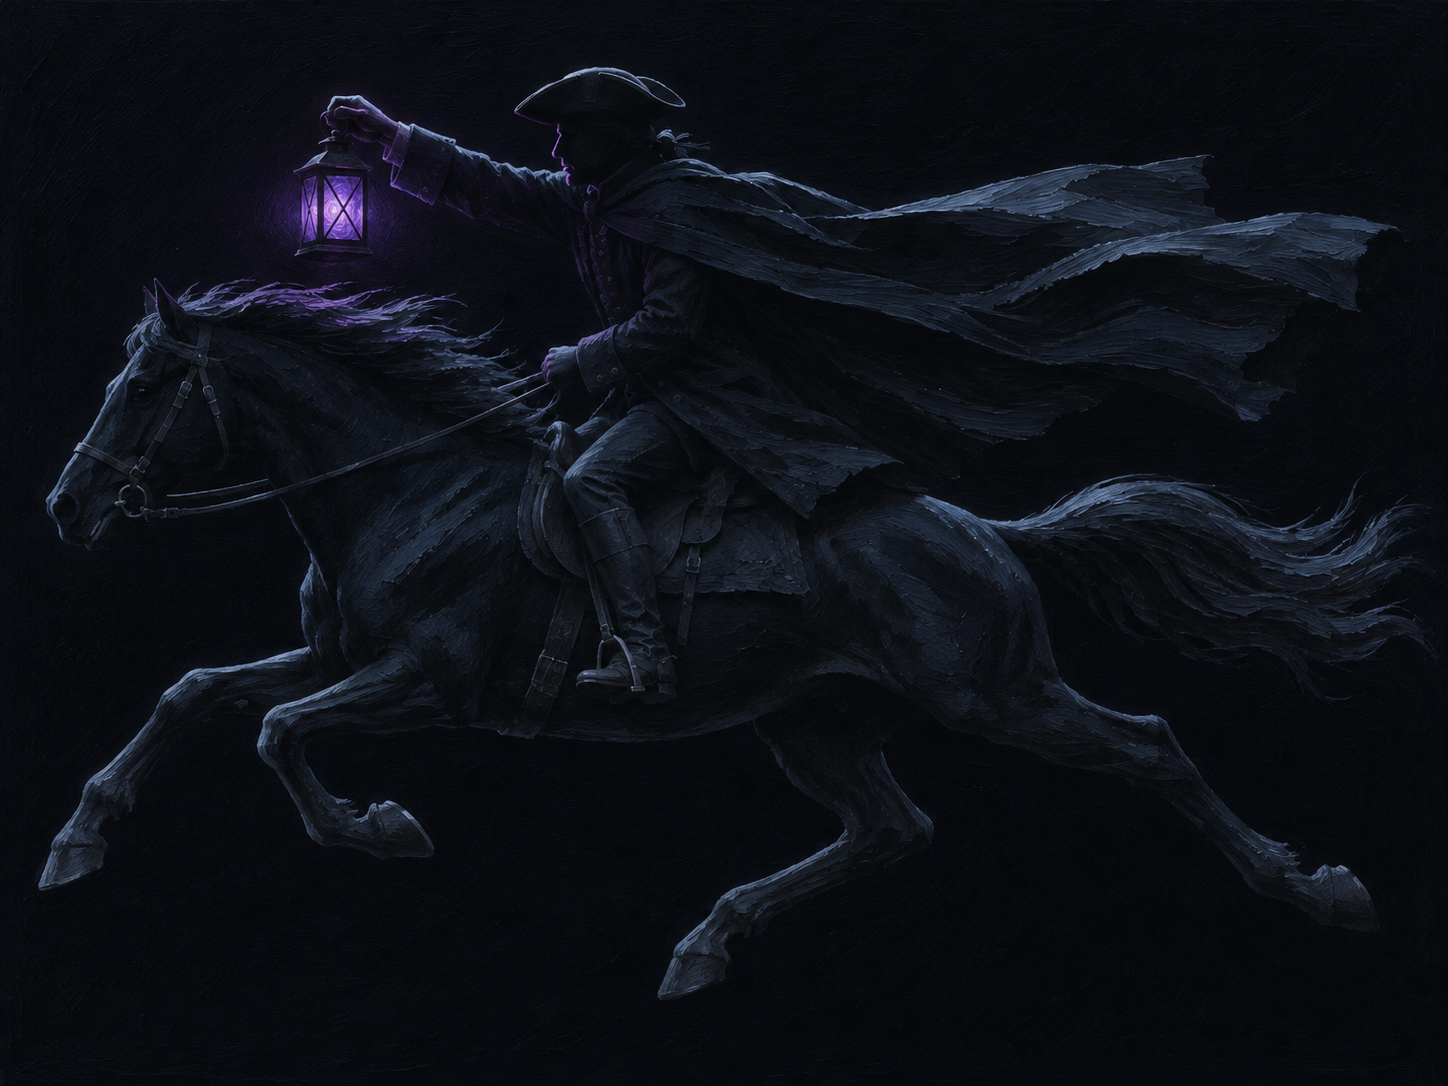
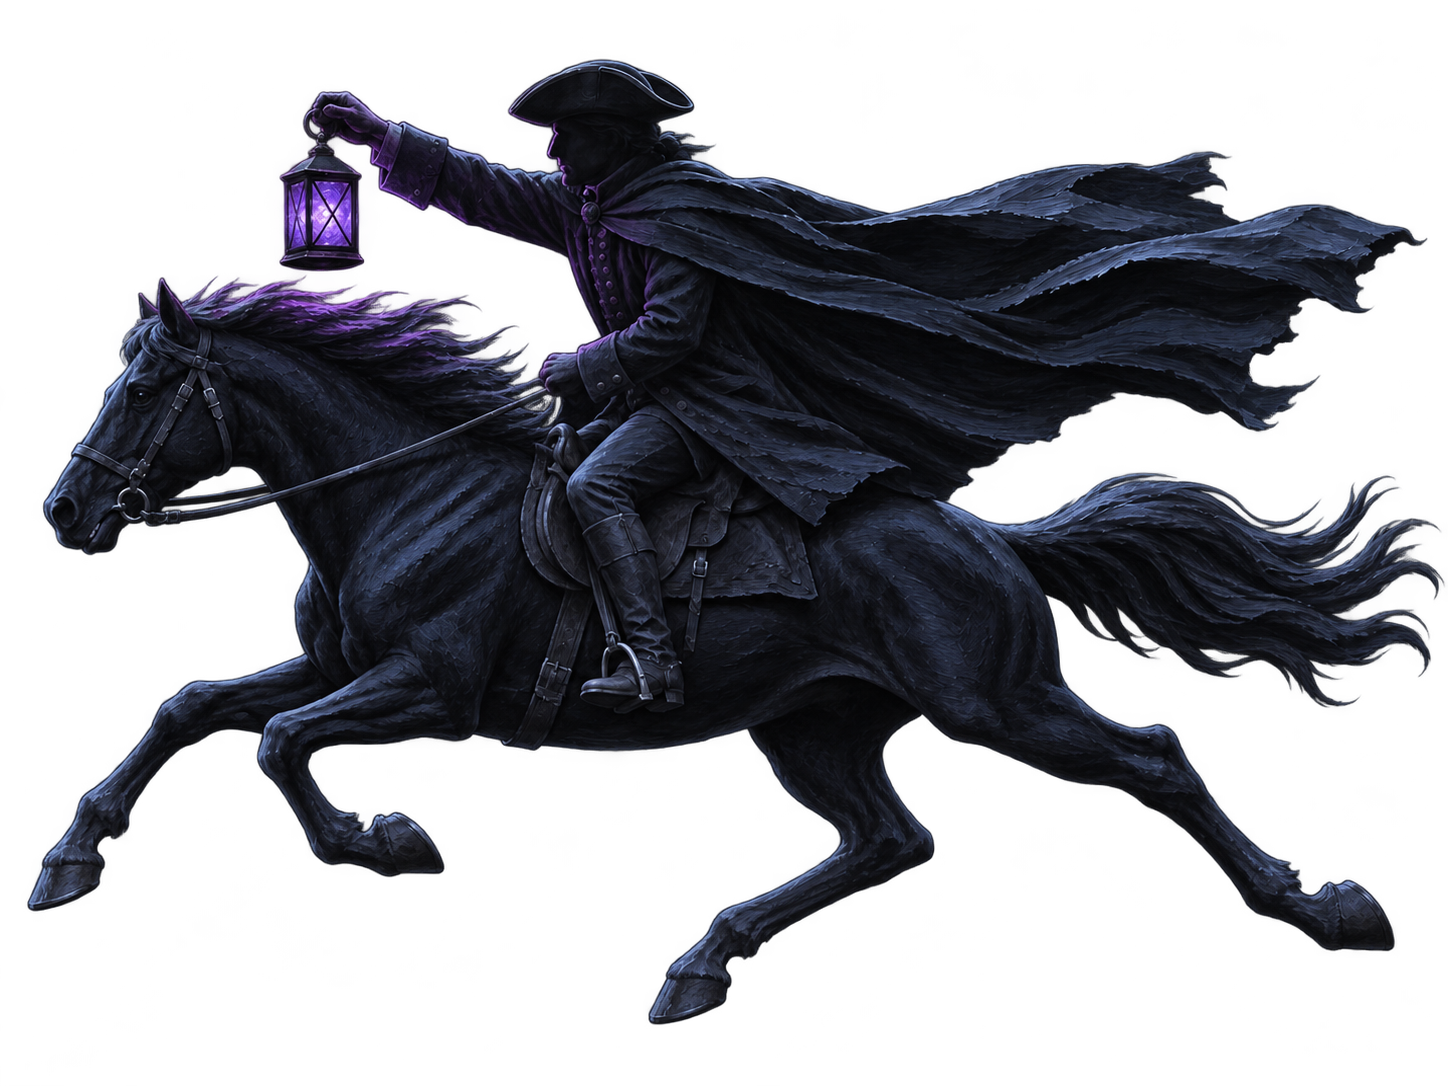
05 v5: painted reaper (reaper.py from Charlie's transparent source) and rider re-rigged from the transparent v2 source
Claude-Session: https://claude.ai/code/session_01MsLwUfhB3HFQTe9VxDx6nJ

diff --git a/videos/05-graveyard/night/cut_rider.py b/videos/05-graveyard/night/cut_rider.py
@@ -2,19 +2,17 @@
 
 Usage:  python3 videos/05-graveyard/night/cut_rider.py [--check]
 
-The source is a dark figure on a dark background, so colour keying alone loses the belly, the cloak's inner fold
-and the far legs. The matte is: GrabCut on a contrast-boosted copy, plus hand-traced polygons for the regions it
-misses, minus the lantern's halo (we draw our own light). Parts: four legs (each rotates about a pivot inside the
-body), the lantern (swings from the hand) and the body (everything else; the cloak, tail and mane ripple at
-draw time). Writes assets/rider/{body,fl_far,fl_near,hl_near,hl_far,lantern}.png at source resolution and
-assets/rider/rig.json with pivots, the ground line, the body length and the lantern glass centre.
-All coordinates below are source pixels (1448 x 1086).
+v2 source (Nov 7): Charlie's second generation, delivered with a transparent background, so the matte is the
+source's own alpha. (v1, rider-source-v1.png, was dark on dark and needed GrabCut plus hand-traced fixes; see git
+history.) Parts: four legs (each rotates about a pivot hidden under the body), the lantern (swings from the hand)
+and the body (everything else; the cloak, tail and mane ripple at draw time). Writes assets/rider/{body,fl_far,
+fl_near,hl_near,hl_far,lantern}.png and assets/rider/rig.json (pivots, ground line, body length, glass centre).
+All coordinates are source pixels (1448 x 1086).
 """
 import json
 import os
 import sys
 
-import cv2
 import numpy as np
 from PIL import Image, ImageDraw, ImageFilter
 from scipy import ndimage as ndi
@@ -23,125 +21,76 @@ HERE = os.path.dirname(os.path.abspath(__file__))
 SRC = os.path.join(HERE, "assets", "rider-source.png")
 OUT = os.path.join(HERE, "assets", "rider")
 
-# regions GrabCut drops because they are nearly background-dark
-FG_POLYS = [
-    # belly and the tops of the legs under it
-    [(300, 640), (420, 650), (470, 640), (560, 610), (640, 620), (720, 640), (800, 650), (860, 660), (900, 700), (900, 735), (840, 745), (790, 745),
-     (760, 760), (740, 760), (700, 752), (620, 755), (540, 748), (470, 735), (420, 720), (380, 700), (330, 690), (300, 680)],
-    # the cloak's shadowed inner fold behind the rider's back
-    [(640, 280), (700, 300), (780, 330), (860, 355), (880, 380), (850, 395), (780, 395), (700, 400), (640, 410), (610, 400), (610, 330)],
-    # rider's face and collar
-    [(545, 105), (600, 105), (620, 160), (600, 215), (560, 215), (548, 170)],
-]
-# the lantern's glow on the background, everything left of the rider and above the mane except arm, hand and lantern
-HALO = [(130, 30), (520, 30), (520, 90), (545, 100), (545, 300), (470, 300), (400, 290), (330, 282), (260, 283), (200, 288), (130, 288)]
-KEEP_IN_HALO = [
-    [(326, 95), (366, 98), (400, 124), (450, 144), (500, 154), (548, 162), (560, 215), (530, 215), (495, 200), (445, 185), (400, 168), (360, 145), (330, 132)],  # hand and arm (top edge traced tight: v5)
-    [(500, 50), (690, 60), (690, 110), (500, 115)],                                     # tricorn
-    [(130, 268), (190, 268), (190, 330), (130, 330)],                                   # the horse's ears
-]
-# legs: polygon of the whole leg (with overlap up into the body), the cut line (only the part below/outside it is
-# removed from the body layer) and the pivot it rotates about
+# legs: the whole leg (with overlap up into the body), the cut (only the part inside it is removed from the body
+# layer) and the pivot it rotates about
 LEGS = {
-    "fl_far": dict(poly=[(345, 635), (300, 640), (240, 653), (188, 662), (158, 684), (124, 758), (88, 783), (52, 838), (25, 900), (115, 900), (112, 842),
-                         (136, 800), (176, 742), (206, 712), (262, 703), (300, 702), (345, 702)],
-                   cut=lambda x, y: x < 305, pivot=(325, 672)),
-    "fl_near": dict(poly=[(455, 640), (400, 645), (330, 668), (288, 688), (255, 703), (246, 732), (268, 764), (298, 802), (318, 838), (362, 864), (445, 864),
-                          (436, 824), (402, 798), (346, 788), (322, 758), (304, 738), (334, 722), (400, 708), (455, 706)],
-                    cut=lambda x, y: (x < 400) & (y > 660), pivot=(415, 675)),
-    "hl_near": dict(poly=[(740, 698), (800, 696), (882, 732), (932, 788), (948, 830), (928, 852), (872, 860), (802, 882), (748, 916), (722, 966), (702, 1004),
-                          (650, 1004), (656, 940), (698, 904), (758, 874), (828, 840), (876, 822), (848, 790), (800, 762), (756, 742)],
-                    cut=lambda x, y: y > 742, pivot=(800, 722)),
-    "hl_far": dict(poly=[(980, 636), (1060, 646), (1100, 668), (1168, 688), (1192, 718), (1232, 778), (1292, 838), (1342, 858), (1394, 888), (1398, 938),
-                         (1318, 938), (1288, 892), (1238, 852), (1178, 792), (1138, 762), (1078, 748), (1018, 732), (978, 712)],
-                   cut=lambda x, y: (x > 1045) & (y > 655), pivot=(1015, 680)),
+    "fl_far": dict(poly=[(330, 650), (250, 662), (185, 678), (150, 720), (110, 790), (70, 840), (25, 900), (65, 912), (102, 880), (108, 842), (132, 802),
+                         (172, 742), (212, 712), (272, 702), (330, 706)],
+                   cut=lambda x, y: x < 300, pivot=(322, 676)),
+    "fl_near": dict(poly=[(395, 676), (320, 686), (268, 708), (252, 746), (282, 792), (308, 838), (352, 874), (448, 874), (442, 822), (400, 808), (346, 798),
+                          (322, 768), (302, 746), (332, 732), (395, 726)],
+                    cut=lambda x, y: (x < 385) & (y > 690), pivot=(398, 700)),
+    "hl_near": dict(poly=[(756, 722), (832, 728), (908, 790), (934, 842), (906, 868), (842, 888), (762, 932), (738, 976), (724, 1024), (646, 1024), (656, 964),
+                          (698, 932), (758, 894), (838, 858), (878, 840), (848, 806), (798, 782), (756, 762)],
+                    cut=lambda x, y: y > 752, pivot=(800, 738)),
+    "hl_far": dict(poly=[(988, 638), (1062, 648), (1112, 688), (1176, 722), (1202, 758), (1252, 818), (1302, 858), (1348, 872), (1398, 898), (1404, 952),
+                         (1318, 952), (1288, 902), (1238, 862), (1178, 802), (1138, 776), (1078, 762), (1018, 746), (982, 722)],
+                   cut=lambda x, y: (x > 1048) & (y > 665), pivot=(1022, 692)),
 }
-LANTERN = dict(poly=[(328, 112), (342, 112), (344, 132), (362, 156), (374, 162), (374, 244), (366, 256), (306, 256), (298, 244), (298, 162), (310, 156), (326, 132)], pivot=(335, 112))
-GROUND_Y = 990          # where the lowest hoof sits; the shadow goes here
-BODY_LEN = 820          # chest to buttock, px
-GLASS = (334, 196)      # lantern glass centre
+LANTERN = dict(poly=[(312, 102), (332, 102), (336, 138), (354, 150), (366, 166), (366, 254), (358, 272), (284, 272), (276, 254), (276, 166), (290, 150), (308, 138)],
+               pivot=(322, 106))
+GROUND_Y = 1015         # where the lowest hoof sits; the shadow goes here
+BODY_LEN = 790          # chest to buttock, px
+GLASS = (322, 212)      # lantern glass centre
+BELLY_Y = 778           # nothing of the body hangs below this
 
 
 def poly_mask(shape, poly):
     im = Image.new("L", (shape[1], shape[0]), 0)
-    ImageDraw.Draw(im).polygon(poly, fill=255)
+    ImageDraw.Draw(im).polygon([tuple(p) for p in poly], fill=255)
     return np.asarray(im) > 127
 
 
-def build():
-    rgb = np.asarray(Image.open(SRC).convert("RGB"))
-    a = rgb.astype(np.float32)
-    lum = a.mean(2)
-    shape = lum.shape
-    boost = np.clip((a - 8) * 6, 0, 255).astype(np.uint8)
-    seed = cv2.GaussianBlur(lum, (0, 0), 3) > 14.5
-    lab, n = ndi.label(seed)
-    sizes = ndi.sum(seed, lab, range(1, n + 1))
-    seed = np.isin(lab, 1 + np.where(sizes > 1500)[0])
-    dist = ndi.distance_transform_edt(~seed)
-    gc = np.full(shape, cv2.GC_PR_BGD, np.uint8)
-    gc[dist > 45] = cv2.GC_BGD
-    gc[ndi.binary_erosion(seed, iterations=3)] = cv2.GC_PR_FGD
-    gc[ndi.binary_erosion(seed, iterations=12)] = cv2.GC_FGD
-    halo = poly_mask(shape, HALO)
-    keep = np.zeros(shape, bool)
-    for p in KEEP_IN_HALO:
-        keep |= poly_mask(shape, p)
-    gc[halo & ~keep] = cv2.GC_BGD
-    for p in FG_POLYS:
-        gc[poly_mask(shape, p)] = cv2.GC_FGD
-    gc[:8] = gc[-8:] = cv2.GC_BGD
-    gc[:, :8] = gc[:, -8:] = cv2.GC_BGD
-    bgd, fgd = np.zeros((1, 65)), np.zeros((1, 65))
-    cv2.grabCut(cv2.cvtColor(boost, cv2.COLOR_RGB2BGR), gc, None, bgd, fgd, 6, cv2.GC_INIT_WITH_MASK)
-    m = (gc == cv2.GC_FGD) | (gc == cv2.GC_PR_FGD)
-    m &= ~(halo & ~keep)
-    m = ndi.binary_fill_holes(ndi.binary_closing(m, iterations=2))
-    lab, n = ndi.label(m)
-    sizes = ndi.sum(m, lab, range(1, n + 1))
-    m = np.isin(lab, 1 + np.where(sizes > 1500)[0])
-    alpha = np.asarray(Image.fromarray((m * 255).astype(np.uint8)).filter(ImageFilter.GaussianBlur(1.4))).astype(np.float32) / 255
+def soft(mask, r):
+    return np.asarray(Image.fromarray((mask * 255).astype(np.uint8)).filter(ImageFilter.GaussianBlur(r))).astype(np.float32) / 255
 
-    os.makedirs(OUT, exist_ok=True)
+
+def build():
+    src = Image.open(SRC).convert("RGBA")
+    arr = np.asarray(src)
+    rgb, alpha = arr[..., :3], arr[..., 3].astype(np.float32) / 255
+    shape = alpha.shape
     yy, xx = np.mgrid[0:shape[0], 0:shape[1]]
-    cut_all = np.zeros(shape, np.float32)
+    os.makedirs(OUT, exist_ok=True)
     rig = dict(size=[shape[1], shape[0]], ground_y=GROUND_Y, body_len=BODY_LEN, glass=list(GLASS), parts={})
 
     def save(name, al):
-        out = np.dstack([rgb, (np.clip(al, 0, 1) * 255).astype(np.uint8)])
-        Image.fromarray(out, "RGBA").save(os.path.join(OUT, f"{name}.png"))
+        Image.fromarray(np.dstack([rgb, (np.clip(al, 0, 1) * 255).astype(np.uint8)]), "RGBA").save(os.path.join(OUT, f"{name}.png"))
 
+    cut_all = np.zeros(shape, np.float32)
     for name, leg in LEGS.items():
-        pm = ndi.binary_dilation(poly_mask(shape, leg["poly"]), iterations=22)
-        soft = np.asarray(Image.fromarray((pm * 255).astype(np.uint8)).filter(ImageFilter.GaussianBlur(1.0))).astype(np.float32) / 255
-        save(name, alpha * soft)
-        cut = pm & leg["cut"](xx, yy)
-        cut_all = np.maximum(cut_all, cut.astype(np.float32))
+        pm = ndi.binary_dilation(poly_mask(shape, leg["poly"]), iterations=20)
+        save(name, alpha * soft(pm, 1.0))
+        cut_all = np.maximum(cut_all, (pm & leg["cut"](xx, yy)).astype(np.float32))
         rig["parts"][name] = dict(pivot=list(leg["pivot"]))
-    lm = poly_mask(shape, LANTERN["poly"])
-    lsoft = np.asarray(Image.fromarray((lm * 255).astype(np.uint8)).filter(ImageFilter.GaussianBlur(1.0))).astype(np.float32) / 255
-    save("lantern", lsoft)
+    lsoft = soft(poly_mask(shape, LANTERN["poly"]), 1.0)
+    save("lantern", alpha * lsoft)
     rig["parts"]["lantern"] = dict(pivot=list(LANTERN["pivot"]))
-    # body: everything minus the legs below their cut lines (feathered so the joint blends over the leg beneath)
-    # and minus the lantern (sharp: it hangs in empty air)
-    feather = np.asarray(Image.fromarray((cut_all * 255).astype(np.uint8)).filter(ImageFilter.GaussianBlur(7))).astype(np.float32) / 255
+    feather = soft(cut_all > 0.5, 7)
     body = alpha * (1 - np.clip(feather * 1.15, 0, 1)) * (1 - lsoft)
-    body[yy > 775] = 0  # nothing of the body hangs below the belly; stray leg strokes there would not move
+    body[yy > BELLY_Y] = 0
     save("body", body)
     with open(os.path.join(OUT, "rig.json"), "w") as f:
         json.dump(rig, f, indent=2)
-    return alpha
 
 
 def check():
-    """A contact sheet: the matte over a mid-grey, and each part outlined with its pivot."""
     rig = json.load(open(os.path.join(OUT, "rig.json")))
     W, H = rig["size"]
     sheet = Image.new("RGB", (W, H), (110, 120, 135))
-    body = Image.open(os.path.join(OUT, "body.png"))
-    for name in ("fl_far", "hl_far", "hl_near", "fl_near", "lantern"):
-        sheet.paste(Image.open(os.path.join(OUT, f"{name}.png")), (0, 0), Image.open(os.path.join(OUT, f"{name}.png")))
-    sheet.paste(body, (0, 0), body)
+    for name in ("fl_far", "hl_far", "hl_near", "fl_near", "lantern", "body"):
+        p = Image.open(os.path.join(OUT, f"{name}.png"))
+        sheet.paste(p, (0, 0), p)
     d = ImageDraw.Draw(sheet)
     colors = dict(fl_far=(255, 80, 80), fl_near=(255, 200, 60), hl_near=(80, 255, 120), hl_far=(80, 180, 255), lantern=(220, 120, 255))
     for name, p in rig["parts"].items():
@@ -149,12 +98,14 @@ def check():
         d.ellipse((x - 8, y - 8, x + 8, y + 8), outline=colors[name], width=3)
         poly = [tuple(v) for v in (LEGS[name]["poly"] if name in LEGS else LANTERN["poly"])]
         d.line(poly + [poly[0]], fill=colors[name], width=2)
+    gx, gy = rig["glass"]
+    d.ellipse((gx - 6, gy - 6, gx + 6, gy + 6), outline=(255, 255, 255), width=2)
     d.line((0, rig["ground_y"], W, rig["ground_y"]), fill=(255, 255, 255), width=1)
-    sheet.resize((W // 2 + 362, H // 2 + 272)).save("/tmp/rig_check.png")
-    # the body alone, to see the joint feathering
+    sheet.resize((W * 3 // 4, H * 3 // 4)).save("/tmp/rig_check.png")
     b = Image.new("RGB", (W, H), (110, 120, 135))
+    body = Image.open(os.path.join(OUT, "body.png"))
     b.paste(body, (0, 0), body)
-    b.resize((W // 2 + 362, H // 2 + 272)).save("/tmp/rig_body.png")
+    b.resize((W * 3 // 4, H * 3 // 4)).save("/tmp/rig_body.png")
 
 
 if __name__ == "__main__":

diff --git a/videos/05-graveyard/night/reaper.py b/videos/05-graveyard/night/reaper.py
@@ -1,0 +1,120 @@
+"""The reaper for video 05: a painted puppet from assets/reaper-source.png (Charlie's ChatGPT generation, Nov 7,
+transparent background). Replaces the code-drawn reaper in night_lib.draw_reaper, with the same call:
+
+draw_reaper(frame, sx, ground_y, height, t, eyes=1.0, sway=1.0, step=0.0, fade=1.0)
+  sx, ground_y  where the hem's centre meets the ground, screen px
+  height        hood top to ground, screen px
+  eyes          0..1 glow of the two eye lights in the empty hood (added here, so they can fade on the retreat)
+  step          0..1 phase of a walking stride (0 = still); the reaper glides, so a step is a heavier sway
+  fade          0..1 overall opacity
+
+Rig: the staff, blade and bony hands are a rigid layer on top; the robe beneath ripples through a displacement
+warp that is zero near the shoulders and the staff and grows toward the hem and the tattered sides; the whole
+figure sways a little about its base and breathes. Composited slightly softer, like the rider.
+"""
+import math
+import os
+
+import cv2
+import numpy as np
+from PIL import Image, ImageDraw, ImageFilter
+
+HERE = os.path.dirname(os.path.abspath(__file__))
+SRC = os.path.join(HERE, "assets", "reaper-source.png")
+HOOD_TOP, GROUND = 85, 1062        # source px
+BASE_X = 700                       # hem centre
+EYES_AT = ((684, 182), (718, 182))  # inside the hood
+EYE_RGB = (184, 255, 217)
+STAFF = ((520, 30), (612, 1045))   # the staff's centre line, top to bottom
+RIGID = [  # blade, staff top and both hands stay rigid
+    [(498, 10), (600, 18), (760, 40), (880, 95), (940, 170), (905, 165), (820, 95), (700, 58), (560, 52), (540, 110), (500, 110)],
+    [(500, 200), (575, 200), (580, 300), (500, 300)],
+    [(548, 440), (645, 440), (645, 520), (548, 520)],
+]
+
+_src = None
+_scaled = {}
+
+
+def _load():
+    global _src
+    if _src is None:
+        _src = Image.open(SRC).convert("RGBA")
+    return _src
+
+
+def _at_scale(ws):
+    key = round(ws, 3)
+    if key not in _scaled:
+        if len(_scaled) > 8:
+            _scaled.clear()
+        src = _load()
+        size = (max(2, int(src.width * ws)), max(2, int(src.height * ws)))
+        full = src.resize(size, Image.LANCZOS)
+        yy, xx = np.mgrid[0:size[1], 0:size[0]].astype(np.float32)
+        X, Y = xx / ws, yy / ws
+        # distance from the staff line, source px
+        (x0, y0), (x1, y1) = STAFF
+        dx, dy = x1 - x0, y1 - y0
+        dist = np.abs(dy * (X - x0) - dx * (Y - y0)) / math.hypot(dx, dy)
+        rigid = Image.new("L", size, 0)
+        rd = ImageDraw.Draw(rigid)
+        for poly in RIGID:
+            rd.polygon([(px * ws, py * ws) for px, py in poly], fill=255)
+        staff_band = (dist < 20) & (Y < 1050)
+        rigid_m = np.maximum(np.asarray(rigid), (staff_band * 255).astype(np.uint8))
+        rigid_soft = np.asarray(Image.fromarray(rigid_m).filter(ImageFilter.GaussianBlur(max(0.6, 1.2 * ws)))).astype(np.float32) / 255
+        arr = np.asarray(full).astype(np.float32)
+        top = arr.copy()
+        top[..., 3] *= rigid_soft
+        # robe ripple weight: zero near the shoulders, staff and hands; grows down the robe and out to the sides
+        down = np.clip((Y - 330) / 700, 0, 1) ** 1.3
+        side = np.clip((np.abs(X - BASE_X) - 160) / 260, 0, 1) * np.clip((Y - 260) / 200, 0, 1)
+        keep_off = np.clip((dist - 30) / 60, 0, 1) * (1 - rigid_soft)
+        wgt = np.clip(down + 0.6 * side, 0, 1.2) * keep_off
+        _scaled[key] = dict(robe=np.ascontiguousarray(arr.astype(np.uint8)), top=Image.fromarray(top.astype(np.uint8), "RGBA"),
+                            xx=xx, yy=yy, X=X, Y=Y, w=wgt.astype(np.float32), size=size)
+    return _scaled[key]
+
+
+def draw_reaper(frame, sx, ground_y, height, t, eyes=1.0, sway=1.0, step=0.0, fade=1.0):
+    if fade <= 0 or height < 8:
+        return
+    ws = height / (GROUND - HOOD_TOP)
+    sc = _at_scale(ws)
+    X, Y, w = sc["X"], sc["Y"], sc["w"]
+    walk = math.sin(step * math.pi * 2) if step else 0.0
+    # robe: a slow wave running down and across, stronger at the hem and the tattered edges
+    dxs = w * (9 * np.sin(Y / 85.0 - t * 2.2 + X / 210.0) + 5 * walk * np.sin(Y / 140.0))
+    dys = w * 3.5 * np.sin(X / 70.0 - t * 2.8)
+    robe = cv2.remap(sc["robe"], sc["xx"] - (dxs * ws).astype(np.float32), sc["yy"] - (dys * ws).astype(np.float32),
+                     interpolation=cv2.INTER_LINEAR, borderMode=cv2.BORDER_CONSTANT, borderValue=(0, 0, 0, 0))
+    fig = Image.fromarray(robe, "RGBA")
+    fig.alpha_composite(sc["top"])
+    # eyes: two cold points in the hood with a soft glow
+    if eyes > 0:
+        flick = 0.85 + 0.15 * math.sin(t * 7.0) * math.sin(t * 3.1)
+        glow = Image.new("RGBA", fig.size, (0, 0, 0, 0))
+        gd = ImageDraw.Draw(glow)
+        er = max(1.5, 5.5 * ws)
+        for ex, ey in EYES_AT:
+            gd.ellipse((ex * ws - er * 4, ey * ws - er * 4, ex * ws + er * 4, ey * ws + er * 4), fill=EYE_RGB + (int(110 * eyes * flick),))
+        glow = glow.filter(ImageFilter.GaussianBlur(er * 1.8))
+        gd = ImageDraw.Draw(glow)
+        for ex, ey in EYES_AT:
+            gd.ellipse((ex * ws - er, ey * ws - er * 0.65, ex * ws + er, ey * ws + er * 0.65), fill=EYE_RGB + (int(255 * eyes * flick),))
+        fig.alpha_composite(glow)
+    # sway about the base and a slow breath
+    ang = (0.8 * math.sin(t * 0.9) + 1.6 * walk) * sway
+    fig = fig.rotate(ang, resample=Image.BICUBIC, center=(BASE_X * ws, GROUND * ws))
+    arr = np.asarray(fig.filter(ImageFilter.GaussianBlur(max(0.4, 0.8 * ws)))).astype(np.float32)
+    arr[..., :3] = arr[..., :3] * 0.92 + 3
+    if fade < 1:
+        arr[..., 3] *= fade
+    fig = Image.fromarray(np.clip(arr, 0, 255).astype(np.uint8), "RGBA")
+    bob = -abs(walk) * 0.008 * height + math.sin(t * 1.1) * 0.004 * height
+    # ground shadow
+    shd = Image.new("RGBA", (int(height * 0.9), int(height * 0.07) + 16), (0, 0, 0, 0))
+    ImageDraw.Draw(shd).ellipse((8, 6, shd.width - 8, shd.height - 6), fill=(0, 0, 0, int(150 * fade)))
+    frame.alpha_composite(shd.filter(ImageFilter.GaussianBlur(10)), (int(sx - shd.width / 2), int(ground_y - shd.height / 2)))
+    frame.alpha_composite(fig, (int(sx - BASE_X * ws), int(ground_y - GROUND * ws + bob)))

diff --git a/videos/05-graveyard/night/rider.py b/videos/05-graveyard/night/rider.py
@@ -29,7 +29,7 @@ SW, SH = RIG["size"]
 LEG_ORDER = ("fl_far", "hl_far", "hl_near", "fl_near")      # all behind the body: the body hides the joints
 # gait: (amplitude in degrees, phase offset). Hind legs lead; forelegs follow about half a stride later.
 GAIT = dict(hl_far=(13.0, 0.0), hl_near=(12.0, 0.55), fl_far=(15.0, math.pi), fl_near=(17.0, math.pi + 0.55))
-BODY_CENTRE = (640.0, 640.0)   # pitch pivot, source px (under the saddle)
+BODY_CENTRE = (640.0, 620.0)   # pitch pivot, source px (under the saddle)
 FOOT_X = 640.0                 # the source x placed at sx
 
 _src = None
@@ -56,7 +56,7 @@ def _at_scale(ws):
         X, Y = xx / ws, yy / ws
         cloak = np.clip((X - 690) / 660, 0, 1) ** 1.6 * np.clip((540 - Y) / 60, 0, 1)
         tail = np.clip((X - 1040) / 380, 0, 1) ** 1.4 * np.clip((Y - 440) / 30, 0, 1)
-        mane = 0.35 * np.clip((Y - 262) / 12, 0, 1) * np.clip((338 - Y) / 30, 0, 1) * np.clip((X - 170) / 60, 0, 1) * np.clip((470 - X) / 60, 0, 1)
+        mane = 0.35 * np.clip((Y - 272) / 12, 0, 1) * np.clip((370 - Y) / 30, 0, 1) * np.clip((X - 160) / 60, 0, 1) * np.clip((500 - X) / 60, 0, 1)
         _scaled[key] = dict(parts=parts, xx=xx, yy=yy, X=X, cloak=cloak, tail=tail, mane=mane, size=size)
     return _scaled[key]
 

diff --git a/videos/05-graveyard/night/render_night.py b/videos/05-graveyard/night/render_night.py
@@ -31,9 +31,10 @@ sys.path.insert(0, os.path.join(ROOT, "render"))
 import env  # noqa: E402
 import sfx_night  # noqa: E402
 from rider import draw_rider, rider_glass_estimate  # noqa: E402
+from reaper import draw_reaper  # noqa: E402
 from finish import finish  # noqa: E402
 from night_lib import (F_SCALE, PX, project, CONTRACT, EYES, FOG, FPS, GOLD, H, HORIZON, NIGHT, PURPLE, SAFE, TEXT, W, alpha_mul, chat_panel, display,  # noqa: E402
-                       draw_fog, draw_landscape, draw_moon, draw_reaper, ease, font, lerp, mix, sky, smooth, stone_image, wrap)
+                       draw_fog, draw_landscape, draw_moon, ease, font, lerp, mix, sky, smooth, stone_image, wrap)
 
 def cam_at(x, z, k):
     return dict(x=x, z=z, k=k)
